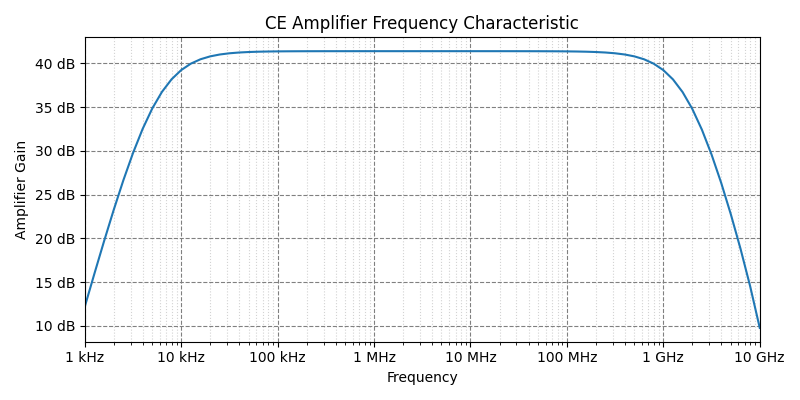
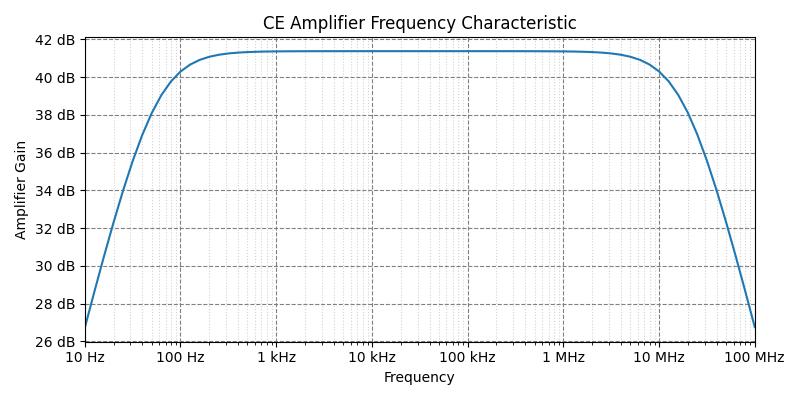
plot 1-3-freq

diff --git a/bjt-amp-lab/CB-freq.py b/bjt-amp-lab/CB-freq.py
@@ -4,12 +4,11 @@ from matplotlib.ticker import EngFormatter
 
 
 def main():
-    # read rawdata
-    filename = '1-1.raw'
+    filename = '1-3(2nd).raw'
     rawdata = Ltspice(filename)
     rawdata.parse()
+    print(rawdata.get_data('V(vout)'))
 
-    # prepare data
     raw_vout = np.absolute(rawdata.get_data('V(vout)'))
     vout = []
     for data in raw_vout:
@@ -18,10 +17,9 @@ def main():
     vout = np.array(vout)
     freq = rawdata.get_frequency()
 
-    # vitualize data
     figure, axis1 = plt.subplots(figsize=(8, 4))
     axis1.set_xscale('log')
-    axis1.set_title('CE Amplifier Frequency Characteristic')
+    axis1.set_title('CC Amplifier Frequency Characteristic')
     formatter1 = EngFormatter(unit='Hz')
     formatter2 = EngFormatter(unit='dB')
     axis1.xaxis.set_major_formatter(formatter1)
@@ -30,10 +28,9 @@ def main():
     axis1.set_xlabel('Frequency')
     axis1.set_ylabel('Amplifier Gain')
     plt.autoscale(enable=True, axis='x', tight=True)
-    axis1.xaxis.grid(True, which="minor", ls="dotted", color='lightgrey')
-    axis1.grid(True, which="major", ls="dashed", color='grey')
+    axis1.xaxis.grid(True, which='minor', ls='dotted', color='lightgrey')
+    axis1.grid(True, which='major', ls='dashed', color='grey')
 
-    # display data
     plt.tight_layout()
     plt.savefig(f'{filename[:-4]}-freq.png')
     plt.show()
